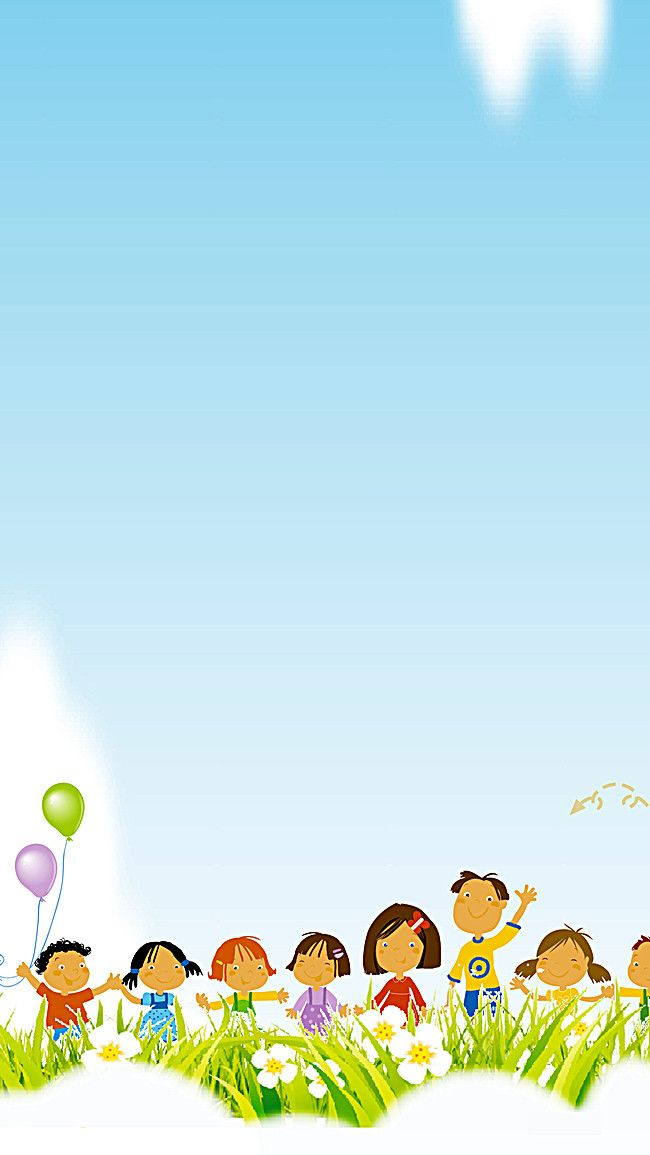
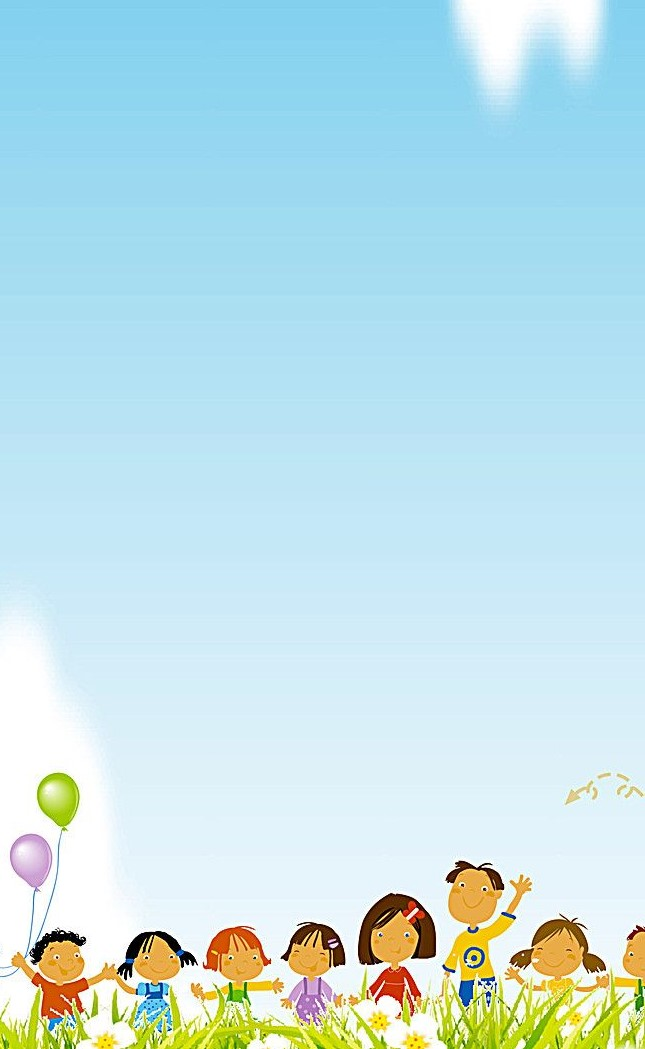
update

Changed region(s): [[0.0, 0.5186, 1.0, 1.0], [0.8682, 0.7321, 1.0, 0.7626], [0.8682, 0.6711, 1.0, 0.7016]]

diff --git a/lib/data/genaral/bangla_kobita_data.dart b/lib/data/genaral/bangla_kobita_data.dart
@@ -264,7 +264,7 @@ final List<BanglaKobitaData> banglaKobitaData = [
     id: '19',
     title: 'ঘুম পাড়ানী মাসি পিসি',
     writer: ' ',
-    fullKobita: """ঘঘুম পাড়ানী মাসি পিসি
+    fullKobita: """ঘুম পাড়ানী মাসি পিসি
 মোদের বাড়ি এসো,
 খাট নাই পালং নাই
 খোকার চোখে বসো।
@@ -395,34 +395,18 @@ final List<BanglaKobitaData> banglaKobitaData = [
     title: 'ষোল আনাই মিছে',
     writer: 'সুকুমার রায়',
     fullKobita: """বিদ্যে বোঝাই বাবুমশাই চড়ি সখের বোটে, 
-মাঝিরে কন, ''বলতে পারিস সূর্যি কেন ওঠে? 
-চাঁদটা কেন বাড়ে কমে? জোয়ার কেন আসে?'' 
+মাঝিরে কন, বলতে পারিস সূর্যি কেন ওঠে? 
+চাঁদটা কেন বাড়ে কমে? জোয়ার কেন আসে?
 বৃদ্ধ মাঝি অবাক হয়ে ফ্যালফ্যালিয়ে হাসে। 
-বাবু বলেন, ''সারা জীবন মরলিরে তুই খাটি, 
-জ্ঞান বিনা তোর জীবনটা যে চারি আনাই মাটি।'' 
+বাবু বলেন, সারা জীবন মরলিরে তুই খাটি, 
+জ্ঞান বিনা তোর জীবনটা যে চারি আনাই মাটি।
 
-খানিক বাদে কহেন বাবু, ''বলতো দেখি ভেবে 
+খানিক বাদে কহেন বাবু, বলতো দেখি ভেবে 
 নদীর ধারা কেমনে আসে পাহাড় থেকে নেবে? 
-বলতো কেন লবণ পোরা সাগর ভরা পানি?'' 
-মাঝি সে কয়, ''আরে মশাই অত কি আর জানি?'' 
-বাবু বলেন, ''এই বয়সে জানিসনেও তা কি 
-জীবনটা তোর নেহাৎ খেলো, অষ্ট আনাই ফাঁকি!'' 
-
-আবার ভেবে কহেন বাবু, '' বলতো ওরে বুড়ো, 
-কেন এমন নীল দেখা যায় আকাশের ঐ চুড়ো? 
-বলতো দেখি সূর্য চাঁদে গ্রহণ লাগে কেন?'' 
-বৃদ্ধ বলে, ''আমায় কেন লজ্জা দেছেন হেন?'' 
-বাবু বলেন, ''বলব কি আর বলব তোরে কি তা,- 
-দেখছি এখন জীবনটা তোর বারো আনাই বৃথা।'' 
-
-খানিক বাদে ঝড় উঠেছে, ঢেউ উঠেছে ফুলে, 
-বাবু দেখেন, নৌকাখানি ডুবলো বুঝি দুলে! 
-মাঝিরে কন, '' একি আপদ! ওরে ও ভাই মাঝি, 
-ডুবলো নাকি নৌকা এবার? মরব নাকি আজি?'' 
-মাঝি শুধায়, ''সাঁতার জানো?''- মাথা নাড়েন বাবু, 
-মূর্খ মাঝি বলে, ''মশাই, এখন কেন কাবু? 
-বাঁচলে শেষে আমার কথা হিসেব করো পিছে, 
-তোমার দেখি জীবন খানা ষোল আনাই মিছে!''
+বলতো কেন লবণ পোরা সাগর ভরা পানি?
+মাঝি সে কয়, আরে মশাই অত কি আর জানি?
+বাবু বলেন, এই বয়সে জানিসনেও তা কি 
+জীবনটা তোর নেহাৎ খেলো, অষ্ট আনাই ফাঁকি!
 """,
   ),
   BanglaKobitaData(
@@ -480,18 +464,6 @@ final List<BanglaKobitaData> banglaKobitaData = [
 ছোট পাখি, ছোট পাখি
 কিচিমিচি ডাকি ডাকি
 কোথা যাও বলে যাও শুনি।
-
-এখন না কব কথা
-আনিয়াছি তৃণলতা
-আপনার বাসা আগে বুনি।
-
-পিপীলিকা, পিপীলিকা
-দলবল ছাড়ি একা
-কোথা যাও, যাও ভাই বলি।
-
-শীতের সঞ্চয় চাই
-খাদ্য খুঁজিতেছি তাই
-ছয় পায়ে পিলপিল চলি।
 """,
   ),
 //   BanglaKobitaData(

diff --git a/lib/global/widget/bangla_kobita_widget.dart b/lib/global/widget/bangla_kobita_widget.dart
@@ -1,8 +1,6 @@
 import 'package:flutter/material.dart';
-import 'package:get/get.dart';
 import 'colors.dart';
 import 'enum.dart';
-import 'global_container.dart';
 import 'global_image_loader.dart';
 import 'global_text.dart';
 import 'images.dart';
@@ -19,67 +17,61 @@ class KobitaWidget extends StatelessWidget {
 
   @override
   Widget build(BuildContext context) {
-    return Column(
-      crossAxisAlignment: CrossAxisAlignment.center,
-      mainAxisAlignment: MainAxisAlignment.center,
+    final size = MediaQuery.of(context).size;
+
+    return Stack(
       children: [
-        GlobalContainer(
-          backgroundColor: ColorRes.backgroundColor,
-          width: Get.width,
-          height: Get.height,
-          child: Stack(
-            children: [
-              // Background Image with custom opacity
-              GlobalImageLoader(
-                imagePath: Images.kobitaBg,
-                width: Get.width,
-                height: Get.height,
-                fit: BoxFit.cover,
-                imageFor: ImageFor.asset,
-                opacity: 0.5,
-              ),
-              Align(
-                alignment: Alignment.topCenter,
-                child: Padding(
-                  padding: const EdgeInsets.only(top: 20),
-                  child: Column(
-                    children: [
-                      GlobalText(
-                        str: fullKobita,
-                        fontSize: 22,
-                        fontWeight: FontWeight.w600,
-                        color: ColorRes.textColor,
-                        textAlign: TextAlign.center,
-                      ),
-                      if (writer != null && writer!.isNotEmpty)
-                        Padding(
-                          padding: const EdgeInsets.only(top: 10),
-                          child: Row(
-                            mainAxisAlignment: MainAxisAlignment.center,
-                            children: [
-                              const GlobalImageLoader(
-                                imagePath: Images.penInc,
-                                height: 25,
-                                width: 25,
-                                fit: BoxFit.fill,
-                                color: ColorRes.primaryColor,
-                              ),
-                              GlobalText(
-                                str: writer!,
-                                fontSize: 14,
-                                color: ColorRes.black,
-                              ),
-                            ],
-                          ),
-                        ),
-                    ],
-                  ),
+        // Background
+        GlobalImageLoader(
+          imagePath: Images.kobitaBg,
+          width: size.width,
+          height: size.height,
+          fit: BoxFit.cover,
+          imageFor: ImageFor.asset,
+          opacity: 0.5,
+        ),
+
+        // Foreground content
+        Center(
+          child: Padding(
+            padding: const EdgeInsets.symmetric(horizontal: 10.0, vertical: 10),
+            child: Column(
+              children: [
+                GlobalText(
+                  str: fullKobita,
+                  fontSize: size.width > 400 ? 21 : 18,
+                  fontWeight: FontWeight.w600,
+                  color: ColorRes.textColor,
+                  textAlign: TextAlign.center,
                 ),
-              ),
-            ],
+                if (writer != null && writer!.isNotEmpty)
+                  Padding(
+                    padding: const EdgeInsets.only(top: 12),
+                    child: Row(
+                      mainAxisAlignment: MainAxisAlignment.center,
+                      children: [
+                        const GlobalImageLoader(
+                          imagePath: Images.penInc,
+                          height: 22,
+                          width: 22,
+                          fit: BoxFit.fill,
+                          color: ColorRes.primaryColor,
+                        ),
+                        const SizedBox(width: 6),
+                        GlobalText(
+                          str: writer!,
+                          fontSize: 14,
+                          color: ColorRes.black,
+                        ),
+                      ],
+                    ),
+                  ),
+              ],
+            ),
           ),
         ),
       ],
     );
   }
 }
+

diff --git a/lib/view/category_screen/bangla_kobita/bangla_kobita_list_screen.dart b/lib/view/category_screen/bangla_kobita/bangla_kobita_list_screen.dart
@@ -1,55 +1,39 @@
 import 'package:flutter/material.dart';
 import 'package:get/get.dart';
-import '../../../../../data/genaral/bangla_songs_data.dart';
+import '../../../../../data/genaral/bangla_kobita_data.dart';
 import '../../../../../global/widget/manu_item_widget.dart';
 import '../../../../../global/widget/colors.dart';
 import '../../../../../global/widget/global_app_bar.dart';
 import '../../../../../global/widget/global_container.dart';
 import 'bangla_full_kobita_screen.dart';
 
-class BanglaKobitaListScreen extends StatefulWidget {
+class BanglaKobitaListScreen extends StatelessWidget {
   const BanglaKobitaListScreen({super.key});
 
   @override
-  State<BanglaKobitaListScreen> createState() => _BanglaKobitaListScreenState();
-}
-
-class _BanglaKobitaListScreenState extends State<BanglaKobitaListScreen> {
-  @override
   Widget build(BuildContext context) {
+    final size = MediaQuery.of(context).size;
+
     return Scaffold(
       appBar: const GlobalAppBar(title: "ছোটদের বাংলা ছড়া-কবিতা"),
       body: GlobalContainer(
-        height: MediaQuery.of(context).size.height,
-        width: MediaQuery.of(context).size.width,
         backgroundColor: ColorRes.backgroundColor,
+        width: size.width,
         child: SingleChildScrollView(
-          child: Padding(
-            padding: const EdgeInsets.only(left: 15, right: 15),
-            child: Column(
-              children: [
-                const SizedBox(height: 10),
-                ListView.builder(
-                  itemCount: banglaKobitaData.length,
-                  shrinkWrap: true,
-                  physics: const NeverScrollableScrollPhysics(),
-                  itemBuilder: (ctx, index) {
-                    final songLyric = banglaKobitaData[index];
-                    return Column(
-                      children: [
-                        ManuItem(
-                          title: songLyric.title,
-                          onTap: () {
-                            Get.to(() => BanglaFullKobitaScreen(id: songLyric.id));
-                          },
-                        ),
-                        const SizedBox(height: 5),
-                      ],
-                    );
+          padding: const EdgeInsets.symmetric(horizontal: 15, vertical: 10),
+          child: Column(
+            children: List.generate(banglaKobitaData.length, (index) {
+              final kobita = banglaKobitaData[index];
+              return Padding(
+                padding: const EdgeInsets.only(bottom: 8),
+                child: ManuItem(
+                  title: kobita.title,
+                  onTap: () {
+                    Get.to(() => BanglaFullKobitaScreen(id: kobita.id));
                   },
                 ),
-              ],
-            ),
+              );
+            }),
           ),
         ),
       ),

diff --git a/lib/view/category_screen/bangla_kobita/bangla_full_kobita_screen.dart b/lib/view/category_screen/bangla_kobita/bangla_full_kobita_screen.dart
@@ -1,36 +1,28 @@
 import 'package:flutter/material.dart';
-import '../../../../../data/genaral/bangla_songs_data.dart';
+import '../../../../../data/genaral/bangla_kobita_data.dart';
 import '../../../../../global/widget/global_app_bar.dart';
 import '../../../../../global/widget/bangla_kobita_widget.dart';
 
 class BanglaFullKobitaScreen extends StatelessWidget {
   final String id;
-  const BanglaFullKobitaScreen({
-    super.key,
-    required this.id,
-  });
+  const BanglaFullKobitaScreen({super.key, required this.id});
 
   @override
   Widget build(BuildContext context) {
-    final bangalKobita = banglaKobitaData.firstWhere((song) => song.id == id);
+    final kobita = banglaKobitaData.firstWhere((item) => item.id == id);
 
     return Scaffold(
-      appBar: GlobalAppBar(
-        title: bangalKobita.title,
-      ),
-      body: SingleChildScrollView(
-        child: Column(
-          crossAxisAlignment: CrossAxisAlignment.center,
-          mainAxisAlignment: MainAxisAlignment.center,
-          children: [
-            KobitaWidget(
-              fullKobita: bangalKobita.fullKobita,
-              writer: bangalKobita.writer,
-            ),
-            const SizedBox(height: 10),
-          ],
+      appBar: GlobalAppBar(title: kobita.title),
+      body: Center(
+        child: ConstrainedBox(
+          constraints: const BoxConstraints(maxWidth: 600),
+          child: KobitaWidget(
+            fullKobita: kobita.fullKobita,
+            writer: kobita.writer,
+          ),
         ),
       ),
     );
   }
 }
+
